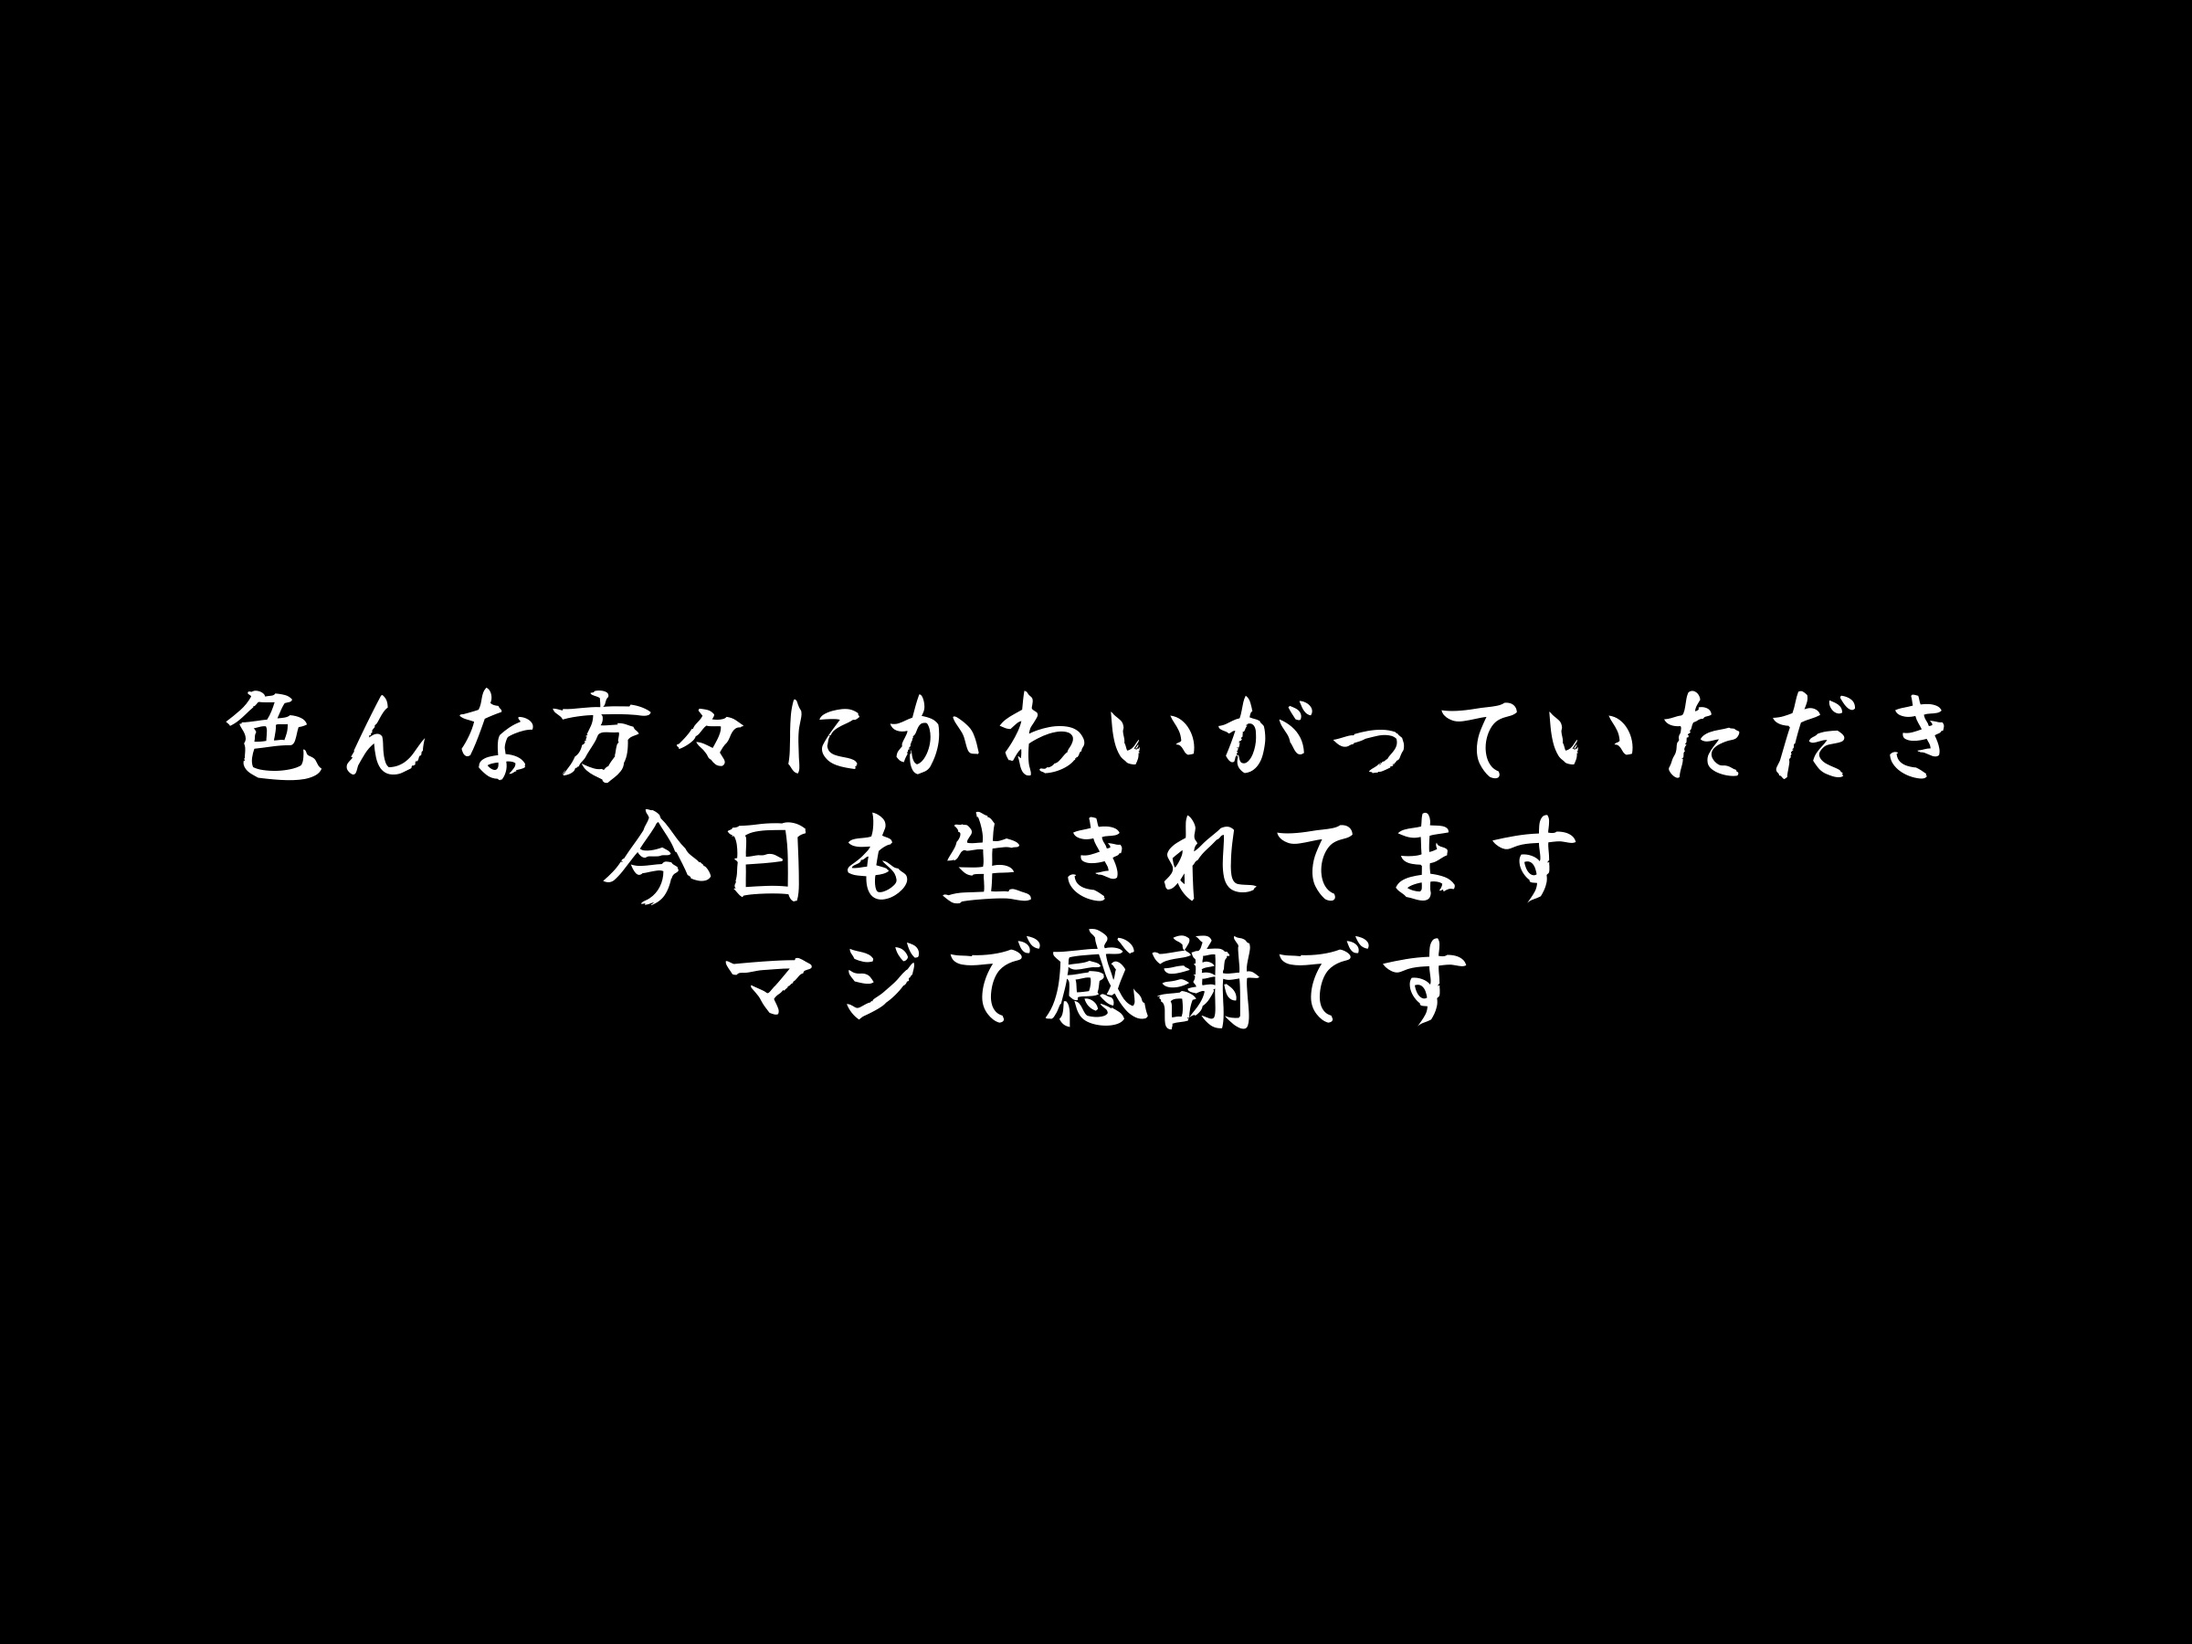
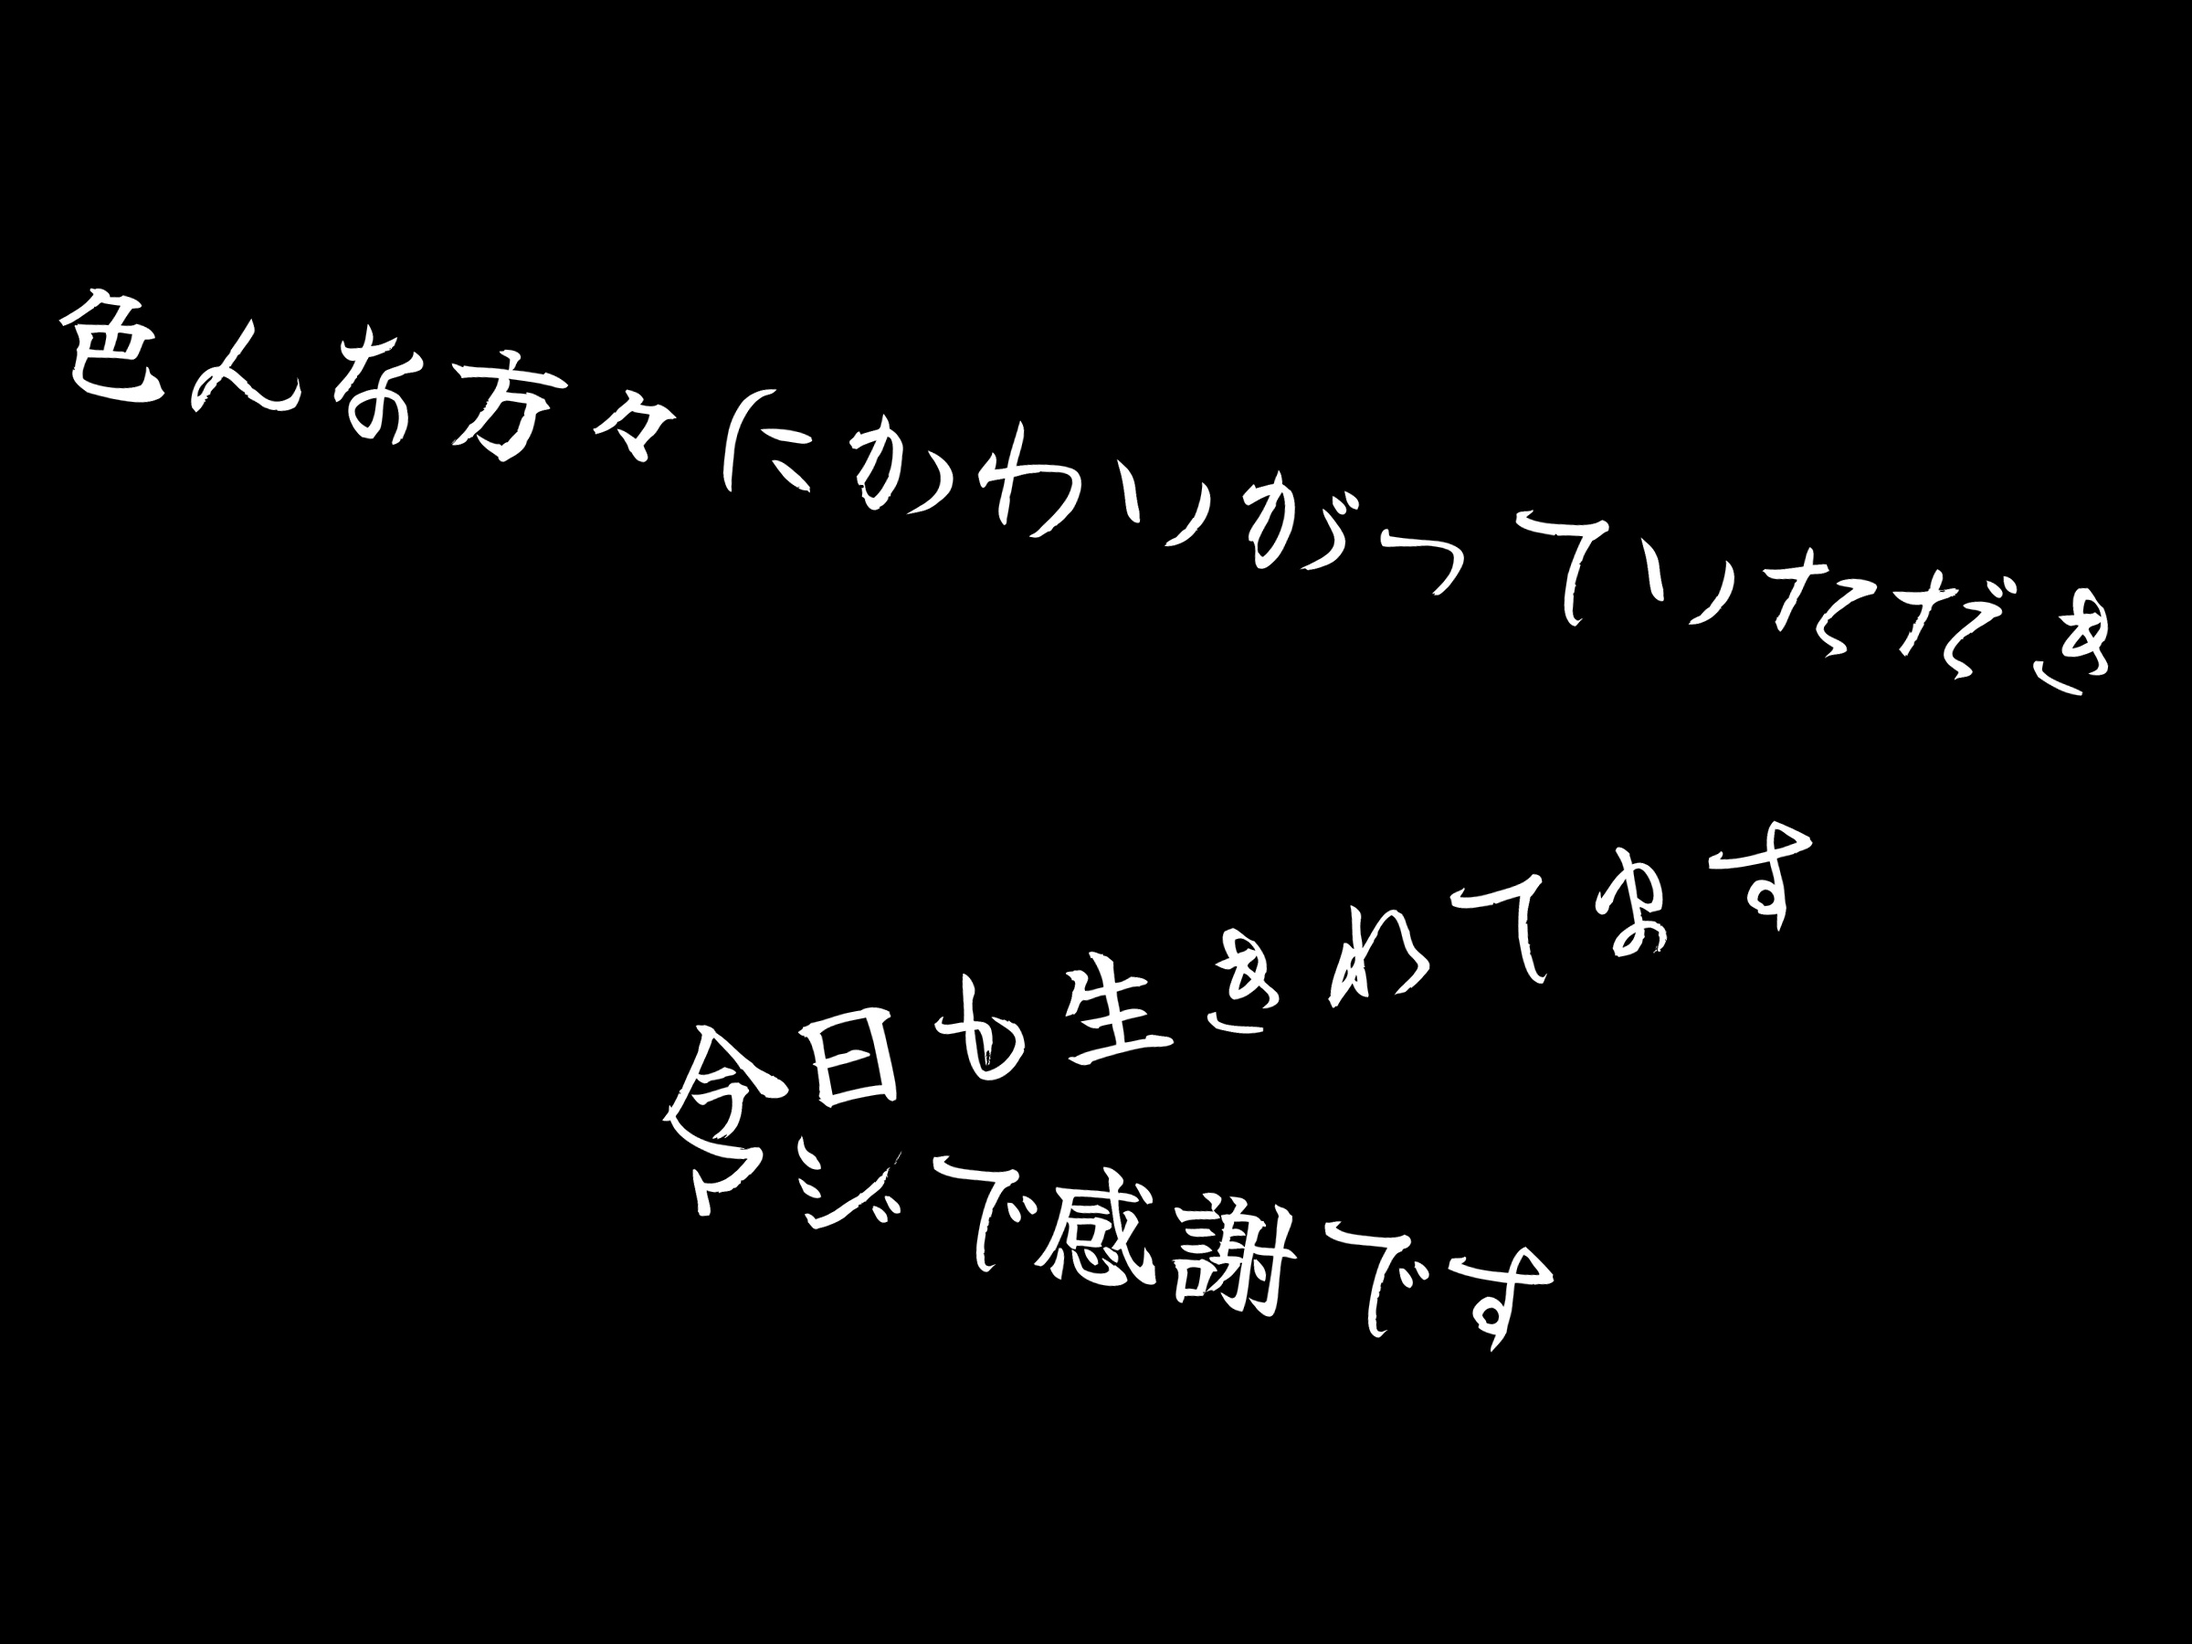
Make gyosho text fill frame with stronger tilt and wild offsets

diff --git a/scripts/generate_brush_message.py b/scripts/generate_brush_message.py
@@ -1,5 +1,5 @@
 #!/usr/bin/env python3
-"""Generate 4:3 black background image with white brush-style Japanese text."""
+"""Generate 4:3 black background image with white gyosho-style Japanese text."""
 
 import urllib.request
 from pathlib import Path
@@ -12,13 +12,26 @@ TEXT_LINES = [
     "マジで感謝です",
 ]
 
+# 行書に近い流れる筆（Yuji Mai）
+FONT_URL = (
+    "https://github.com/google/fonts/raw/main/ofl/yujimai/YujiMai-Regular.ttf"
+)
+FONT_FILENAME = "YujiMai-Regular.ttf"
+
 WIDTH = 2400
 HEIGHT = 1800
 BG = (0, 0, 0)
 FG = (255, 255, 255)
-FONT_URL = (
-    "https://github.com/google/fonts/raw/main/ofl/yujisyuku/YujiSyuku-Regular.ttf"
-)
+
+# 画面いっぱい（最小限の余白）
+MARGIN_X_RATIO = 0.012
+MARGIN_Y_RATIO = 0.015
+
+# 行ごと: 回転(度)、中心からの横・縦ずれ — 行書で暴れ狂うリズム（再現可能な固定値）
+LINE_ANGLES_DEG = (-8.5, 11.0, -9.5)
+LINE_OFFSET_X = (-72, 88, -65)
+LINE_OFFSET_Y = (-38, 48, -42)
+
 CACHE_DIR = Path.home() / ".cache" / "brush_message_gen"
 OUT_JPEG = Path(__file__).resolve().parent.parent / "brush_message_4x3.jpg"
 OUT_PNG = Path(__file__).resolve().parent.parent / "brush_message_4x3.png"
@@ -26,48 +39,120 @@ OUT_PNG = Path(__file__).resolve().parent.parent / "brush_message_4x3.png"
 
 def _font_path() -> Path:
     CACHE_DIR.mkdir(parents=True, exist_ok=True)
-    path = CACHE_DIR / "YujiSyuku-Regular.ttf"
+    path = CACHE_DIR / FONT_FILENAME
     if not path.exists():
         urllib.request.urlretrieve(FONT_URL, path)
     return path
 
 
+def _render_line_rgba(text: str, font: ImageFont.FreeTypeFont, angle_deg: float) -> Image.Image:
+    """Draw one line on transparent RGBA; return rotated image (expand=True)."""
+    probe = Image.new("RGBA", (4, 4), (0, 0, 0, 0))
+    d = ImageDraw.Draw(probe)
+    bb = d.textbbox((0, 0), text, font=font)
+    tw = bb[2] - bb[0]
+    th = bb[3] - bb[1]
+    # 文字ギリギリのキャンバス（従来の巨大パディングは回転後に不要な余白だけ増やす）
+    m = 6
+    layer = Image.new("RGBA", (tw + 2 * m, th + 2 * m), (0, 0, 0, 0))
+    d2 = ImageDraw.Draw(layer)
+    ox = m - bb[0]
+    oy = m - bb[1]
+    d2.text((ox, oy), text, font=font, fill=(*FG, 255))
+    if abs(angle_deg) < 0.01:
+        return layer
+    return layer.rotate(angle_deg, expand=True, resample=Image.BICUBIC)
+
+
+def _layout_at_size(
+    font_path: str,
+    font_size: int,
+    margin_x: int,
+    margin_y: int,
+    avail_w: int,
+    avail_h: int,
+) -> tuple[list[Image.Image], list[tuple[int, int]]] | None:
+    """Build layers and paste positions that fit inside the margin box; else None."""
+    font = ImageFont.truetype(font_path, font_size)
+    layers: list[Image.Image] = []
+    sizes: list[tuple[int, int]] = []
+
+    for i, line in enumerate(TEXT_LINES):
+        im = _render_line_rgba(line, font, LINE_ANGLES_DEG[i])
+        layers.append(im)
+        sizes.append(im.size)
+
+    rh = [h for (_, h) in sizes]
+    # タイトな行間で縦を最大化（画面いっぱい）
+    gap = max(4, int(min(rh) * 0.02))
+    total_h = sum(rh) + gap * (len(rh) - 1)
+
+    # 仮配置: ブロック縦中央、各行はセンター + オフセット
+    y0 = (avail_h - total_h) // 2
+    cx_rel = avail_w // 2
+    positions_rel: list[tuple[int, int]] = []
+    y_cursor = y0
+
+    for i, layer in enumerate(layers):
+        w, h = sizes[i]
+        cx = cx_rel + LINE_OFFSET_X[i]
+        cy = y_cursor + h // 2 + LINE_OFFSET_Y[i]
+        px = int(cx - w / 2)
+        py = int(cy - h / 2)
+        positions_rel.append((px, py))
+        y_cursor += h + gap
+
+    # 相対座標のバウンディングボックス
+    min_x = min(p[0] for p, (w, _) in zip(positions_rel, sizes))
+    max_x = max(p[0] + w for p, (w, _) in zip(positions_rel, sizes))
+    min_y = min(p[1] for p in positions_rel)
+    max_y = max(p[1] + h for p, (_, h) in zip(positions_rel, sizes))
+
+    bw = max_x - min_x
+    bh = max_y - min_y
+    if bw > avail_w or bh > avail_h:
+        return None
+
+    # マージン内にブロック全体を中央寄せ
+    shift_x = margin_x + (avail_w - bw) // 2 - min_x
+    shift_y = margin_y + (avail_h - bh) // 2 - min_y
+    positions = [(px + shift_x, py + shift_y) for px, py in positions_rel]
+
+    # 最終チェック
+    for (px, py), (w, h) in zip(positions, sizes):
+        if px < margin_x or px + w > WIDTH - margin_x:
+            return None
+        if py < margin_y or py + h > HEIGHT - margin_y:
+            return None
+
+    return (layers, positions)
+
+
 def main() -> None:
     font_path = _font_path()
+    margin_x = int(WIDTH * MARGIN_X_RATIO)
+    margin_y = int(HEIGHT * MARGIN_Y_RATIO)
+    avail_w = WIDTH - 2 * margin_x
+    avail_h = HEIGHT - 2 * margin_y
+
+    lo, hi = 40, 520
+    best: tuple[list[Image.Image], list[tuple[int, int]]] | None = None
+    while lo <= hi:
+        mid = (lo + hi) // 2
+        fit = _layout_at_size(str(font_path), mid, margin_x, margin_y, avail_w, avail_h)
+        if fit is not None:
+            best = fit
+            lo = mid + 1
+        else:
+            hi = mid - 1
+
+    if best is None:
+        raise RuntimeError("Could not fit text; increase canvas or reduce copy.")
+
+    layers, positions = best
     img = Image.new("RGB", (WIDTH, HEIGHT), BG)
-    draw = ImageDraw.Draw(img)
-
-    margin_x = int(WIDTH * 0.08)
-    max_text_width = WIDTH - 2 * margin_x
-    font_size = 120
-    font = ImageFont.truetype(str(font_path), font_size)
-
-    while font_size > 40:
-        font = ImageFont.truetype(str(font_path), font_size)
-        line_widths = [
-            draw.textbbox((0, 0), line, font=font)[2]
-            - draw.textbbox((0, 0), line, font=font)[0]
-            for line in TEXT_LINES
-        ]
-        if max(line_widths) <= max_text_width:
-            break
-        font_size -= 4
-
-    line_heights = []
-    for line in TEXT_LINES:
-        bb = draw.textbbox((0, 0), line, font=font)
-        line_heights.append(bb[3] - bb[1])
-    line_gap = int(max(line_heights) * 0.25)
-    total_h = sum(line_heights) + line_gap * (len(TEXT_LINES) - 1)
-    y0 = (HEIGHT - total_h) // 2
-
-    y = y0
-    for i, line in enumerate(TEXT_LINES):
-        bb = draw.textbbox((0, 0), line, font=font)
-        w = bb[2] - bb[0]
-        x = (WIDTH - w) // 2
-        draw.text((x, y), line, font=font, fill=FG)
-        y += line_heights[i] + (line_gap if i < len(TEXT_LINES) - 1 else 0)
+    for layer, pos in zip(layers, positions):
+        img.paste(layer, pos, layer)
 
     img.save(OUT_JPEG, "JPEG", quality=95, optimize=True)
     img.save(OUT_PNG, "PNG", optimize=True)
